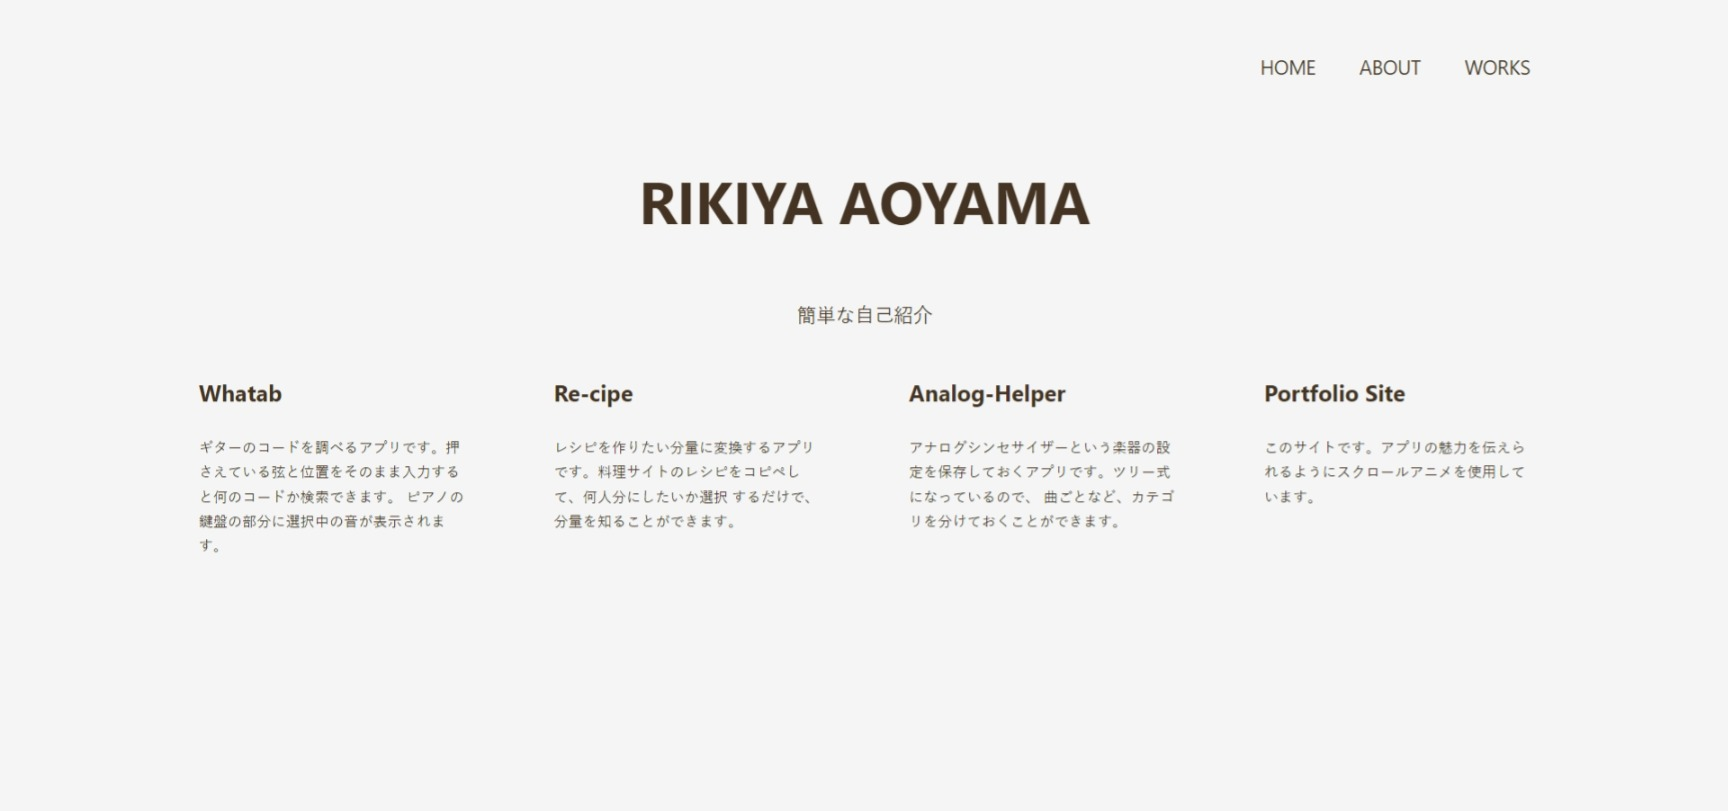
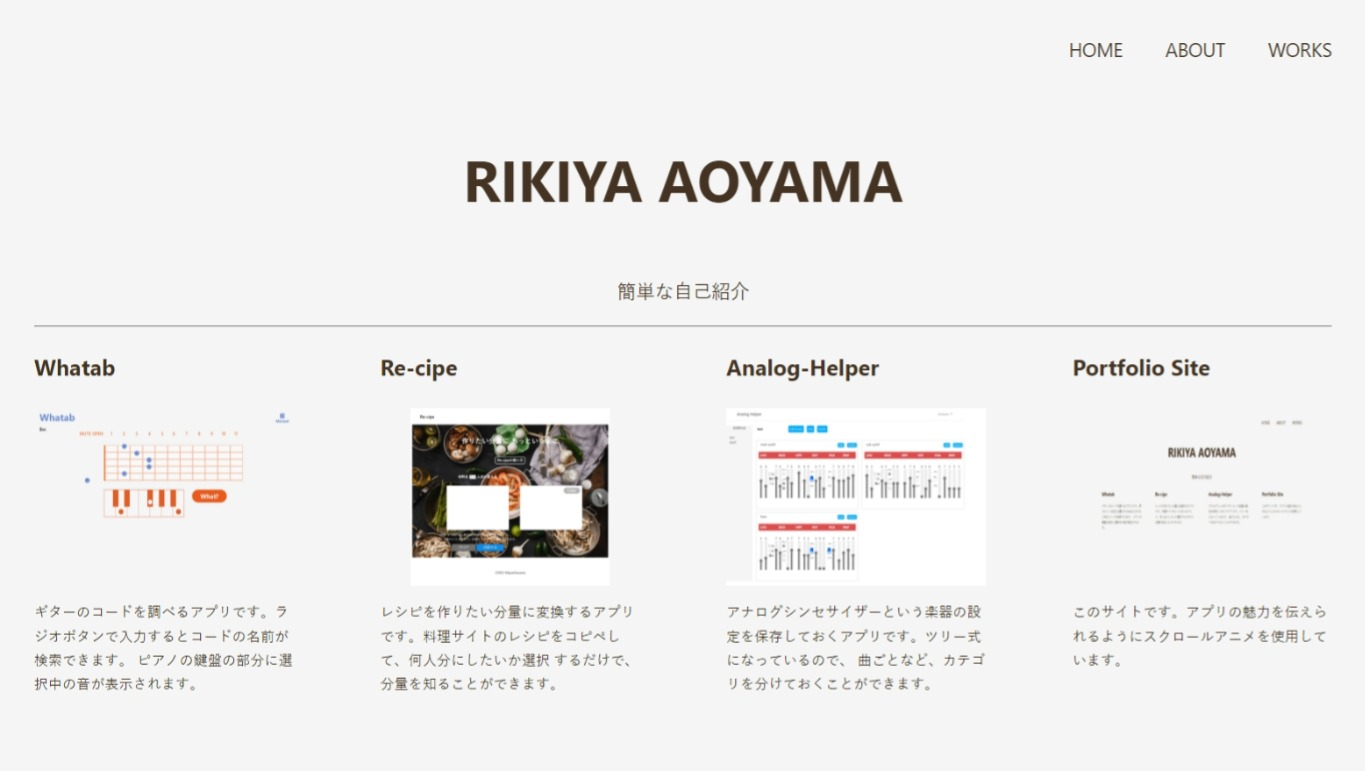
add js

diff --git a/whatab.html b/whatab.html
@@ -20,17 +20,25 @@
         <div class="page-title">
           <h2>Whatab</h2>
         </div>
-        <p>ページURL: <a href="https://whatab.herokuapp.com/index.php">https://whatab.herokuapp.com/index.php</a></p>
-        <p>Github</p>
-        <p>JavaScript版のGithub: <a href="https://github.com/miguel-aoyama/whatab-js">https://github.com/miguel-aoyama/whatab-js</a></p>
+        <div class="url">
+          <p>ページURL: <a href="https://whatab.herokuapp.com/index.php">https://whatab.herokuapp.com/index.php</a></p>
+          <p>Github</p>
+          <p>JavaScript版のGithub: <a href="https://github.com/miguel-aoyama/whatab-js">https://github.com/miguel-aoyama/whatab-js</a></p>
+        </div>
         <div class="introductions">
           <div class="PC-main">
-            <p>PC メインページ</p>
             <div class="PC-main-image">
               <img src="images/Whatab/pc-main.jpeg" id="big-img" >
             </div>
-            <div class="sub-img">
-
+            <div class="sub-image">
+              <ul>
+                <li><p>PCメインページ</p>
+                  <img src="images/Whatab/pc-main.jpeg" class="thumb aside" data-image="images/Whatab/pc-main.jpeg" alt=""> </li>
+                <li><p>PC モーダル画面</p>
+                  <img src="images/Whatab/pc-modal.jpeg" class="thumb aside" data-image="images/Whatab/pc-modal.jpeg" alt=""> </li>
+                <li> <img src="images/Whatab/sp-main.jpeg" class="thumb side" data-image="images/Whatab/sp-main.jpeg" alt=""> </li>
+                <li> <img src="images/Whatab/sp-modal.jpeg" class="thumb side" data-image="images/Whatab/sp-modal.jpeg" alt=""> </li>
+              </ul>
             </div>
           </div>
           <div class="pages">
@@ -60,7 +68,7 @@
             <p><strong>実際の運用を意識</strong></p>
             <p>実際にWebサイトとして使えるように、セキュリティ対策、SNSへのシェアボタン、ファビコンを設置しました。</p>
             <p><strong>Whatabという名前</strong></p>
-            <p>何のタブ(ギターの楽譜のこと)かという意味の造語です。「ワッタブ」という語呂、良くないですか？</p>
+            <p>何のタブ(ギターの楽譜のこと)かという意味の造語です。</p>
           </div>
           <div class="langage">
             <h3>使用言語・開発環境</h3>
@@ -69,5 +77,6 @@
         </div>
       </div>
     </main>
+    <script src="js/master.js"></script>
   </body>
 </html>

diff --git a/portfolio.html b/portfolio.html
@@ -20,8 +20,11 @@
         <div class="page-title">
           <h2>Portfolio Site</h2>
         </div>
-        <p>ページURL: <a href="https://miguel-aoyama.github.io/index.html">https://miguel-aoyama.github.io/index.html</a></p>
-        <p>Github: <a href="https://github.com/miguel-aoyama/miguel-aoyama.github.io">https://github.com/miguel-aoyama/miguel-aoyama.github.io</a></p>
+        <div class="url">
+          <p>ページURL: <a href="https://miguel-aoyama.github.io/index.html">https://miguel-aoyama.github.io/index.html</a></p>
+          <p>Github: <a href="https://github.com/miguel-aoyama/miguel-aoyama.github.io">https://github.com/miguel-aoyama/miguel-aoyama.github.io</a></p>
+        </div>
+      
         <div class="introductions">
           <div class="PC-main">
             <p>PC メインページ</p>

diff --git a/CSS/main.css b/CSS/main.css
@@ -62,6 +62,7 @@ main{
 .page-title {
   font-size: 3rem;
   font-weight: bold;
+  margin: 10px;
 }
 
 /*works*/
@@ -94,14 +95,41 @@ main{
 .works-content h2 {
   font-size: 3rem;
 }
+.url p{
+  margin: 8px;
+}
+.PC-main{
+  display: flex;
+}
 .PC-main-image {
   background-color: RGB(112,112,112,80%);
-  height:100%;
-  width:70%;
+  max-height:500px;
+  width:50%;
 }
 .PC-main-image img{
-  width:80%;
-  margin: 20px auto;
+  max-width:90%;
+  max-height:400px;
+  margin: 30px auto;
+}
+.sub-image {
+  width:50%;
+  display: flex;
+}
+.sub-image ul{
+  display: flex;
+  flex-wrap: wrap;
+  list-style: none;
+}
+.sub-image li {
+  width:45%;
+  height:200px;
+  margin-left: 10px;
+}
+.aside {
+  height:150px;
+}
+.side {
+  height:200px;
 }
 .contents {
   width:70%;

diff --git a/analog-helper.html b/analog-helper.html
@@ -20,8 +20,10 @@
         <div class="page-title">
           <h2>Analog-Helper</h2>
         </div>
-        <p>ページURL: <a href="http://analog-helper.herokuapp.com/login">http://analog-helper.herokuapp.com/login</a> </p>
-        <p>Github: <a href="https://github.com/miguel-aoyama/AnalogHelper">https://github.com/miguel-aoyama/AnalogHelper</a> </p>
+        <div class="url">
+          <p>ページURL: <a href="http://analog-helper.herokuapp.com/login">http://analog-helper.herokuapp.com/login</a> </p>
+          <p>Github: <a href="https://github.com/miguel-aoyama/AnalogHelper">https://github.com/miguel-aoyama/AnalogHelper</a> </p>
+        </div>
         <div class="introductions">
           <div class="PC-main">
             <p>PC メインページ</p>

diff --git a/re-cipe.html b/re-cipe.html
@@ -20,8 +20,10 @@
         <div class="page-title">
           <h2>Re-cipe</h2>
         </div>
-        <p>ページURL</p>
-        <p>Github</p>
+        <div class="url">
+          <p>ページURL</p>
+          <p>Github</p>
+        </div>
         <div class="introductions">
           <div class="PC-main">
             <p>PC メインページ</p>

diff --git a/js/master.js b/js/master.js
@@ -1,0 +1,6 @@
+const thumbs = document.querySelectorAll('.thumb');
+thumbs.forEach(function(item, index) {
+  item.onclick = function(){
+    document.getElementById('big-img').src = this.dataset.image;
+  }
+});

diff --git a/index.html b/index.html
@@ -46,7 +46,7 @@
           </div>
         </div>
       </div>
-
     </main>
+    
   </body>
 </html>
